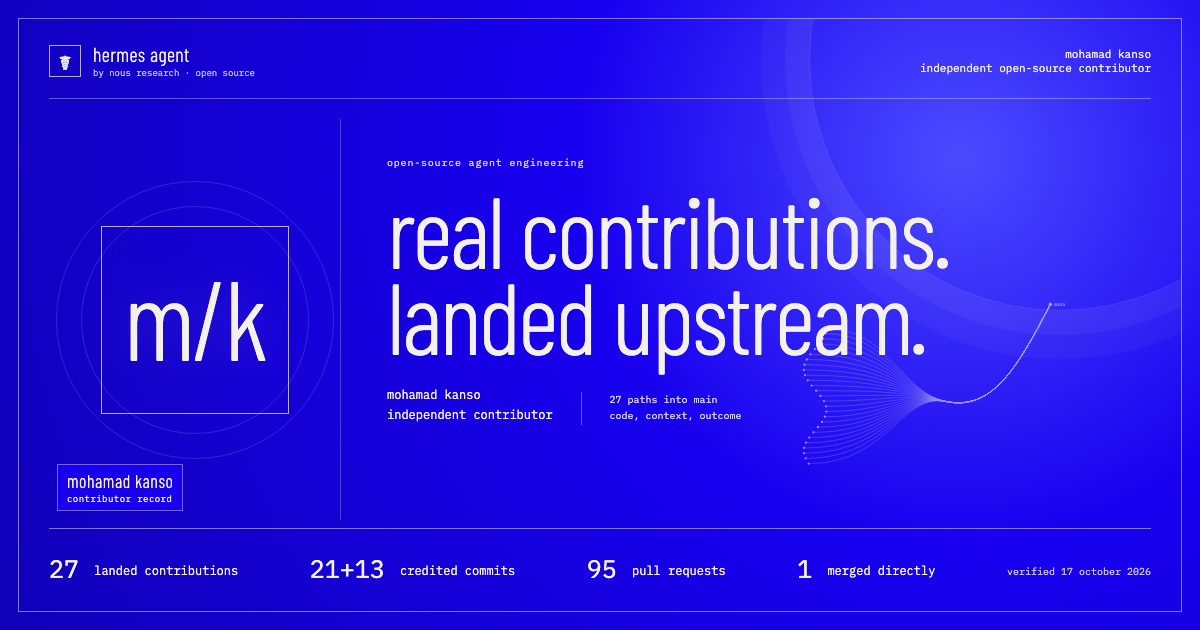
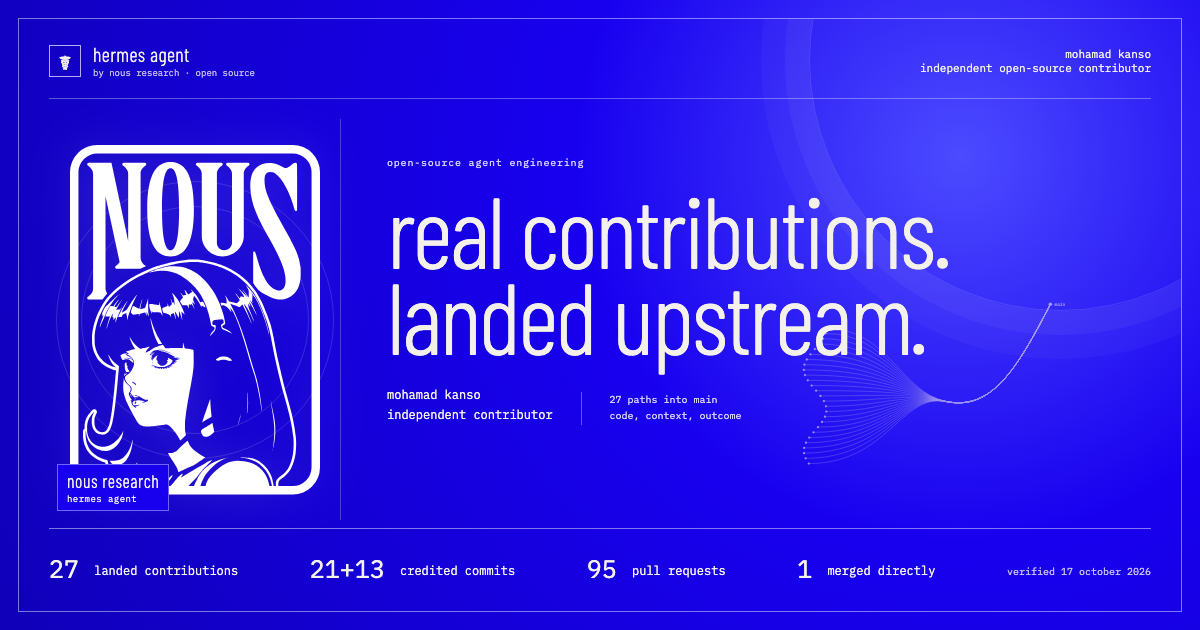
restore nous research artwork in social preview
brings back the nous research logo and mascot panel from 623aaac, with
permission from nous research. headline, numbers and contributor label
are unchanged. og:image and twitter:image bumped to ?v=2026-10-17b.

Changed region(s): [[0.0308, 0.2111, 0.2775, 0.8143]]

diff --git a/public/share.html b/public/share.html
@@ -100,7 +100,7 @@
         gap: 46px;
         align-items: center;
       }
-      .mark-stage {
+      .girl-stage {
         height: 100%;
         position: relative;
         display: flex;
@@ -108,35 +108,30 @@
         justify-content: center;
         border-right: 1px solid #ffffff3d;
       }
-      .mark-stage:before,
-      .mark-stage:after {
+      .girl-stage:before,
+      .girl-stage:after {
         content: "";
         position: absolute;
         border: 1px solid #ffffff24;
         border-radius: 50%;
       }
-      .mark-stage:before {
+      .girl-stage:before {
         width: 276px;
         height: 276px;
       }
-      .mark-stage:after {
+      .girl-stage:after {
         width: 226px;
         height: 226px;
       }
-      .mk-mark {
+      .nous-girl {
+        width: auto;
+        height: 350px;
+        display: block;
         position: relative;
         z-index: 1;
-        width: 188px;
-        height: 188px;
-        display: grid;
-        place-items: center;
-        border: 1px solid #ffffffb0;
-        font: 300 112px/1 display;
-        letter-spacing: -3px;
-        padding-bottom: 8px;
         filter: drop-shadow(0 0 22px #ffffff21);
       }
-      .mark-caption {
+      .girl-caption {
         position: absolute;
         left: 8px;
         bottom: 9px;
@@ -150,7 +145,7 @@
         font-size: 9px;
         letter-spacing: 0.05em;
       }
-      .mark-caption strong {
+      .girl-caption strong {
         font: 400 18px/1 display;
         letter-spacing: 0.03em;
       }
@@ -252,10 +247,16 @@
         >
       </header>
       <div class="hero-layout">
-        <div class="mark-stage">
-          <span class="mk-mark" aria-label="mohamad kanso">m/k</span>
-          <span class="mark-caption"
-            ><strong>mohamad kanso</strong><span>contributor record</span></span
+        <div class="girl-stage">
+          <img
+            class="nous-girl"
+            src="https://web-assets.nousresearch.com/nousnet-web/assets/hermes-landing/teams/nous-girl.66f8944c40c50f8c.svg"
+            alt="Nous Research"
+            width="250"
+            height="350"
+            decoding="sync" />
+          <span class="girl-caption"
+            ><strong>nous research</strong><span>hermes agent</span></span
           >
         </div>
         <div class="headline-block">

diff --git a/index.html b/index.html
@@ -28,14 +28,14 @@
     />
     <meta
       property="og:image"
-      content="https://mohamadkanso.github.io/hermes-contributions/social.png?v=2026-10-17"
+      content="https://mohamadkanso.github.io/hermes-contributions/social.png?v=2026-10-17b"
     />
     <meta property="og:image:width" content="1200" />
     <meta property="og:image:height" content="630" />
     <meta name="twitter:card" content="summary_large_image" />
     <meta
       name="twitter:image"
-      content="https://mohamadkanso.github.io/hermes-contributions/social.png?v=2026-10-17"
+      content="https://mohamadkanso.github.io/hermes-contributions/social.png?v=2026-10-17b"
     />
     <link rel="icon" type="image/svg+xml" href="/favicon.svg" />
   </head>
